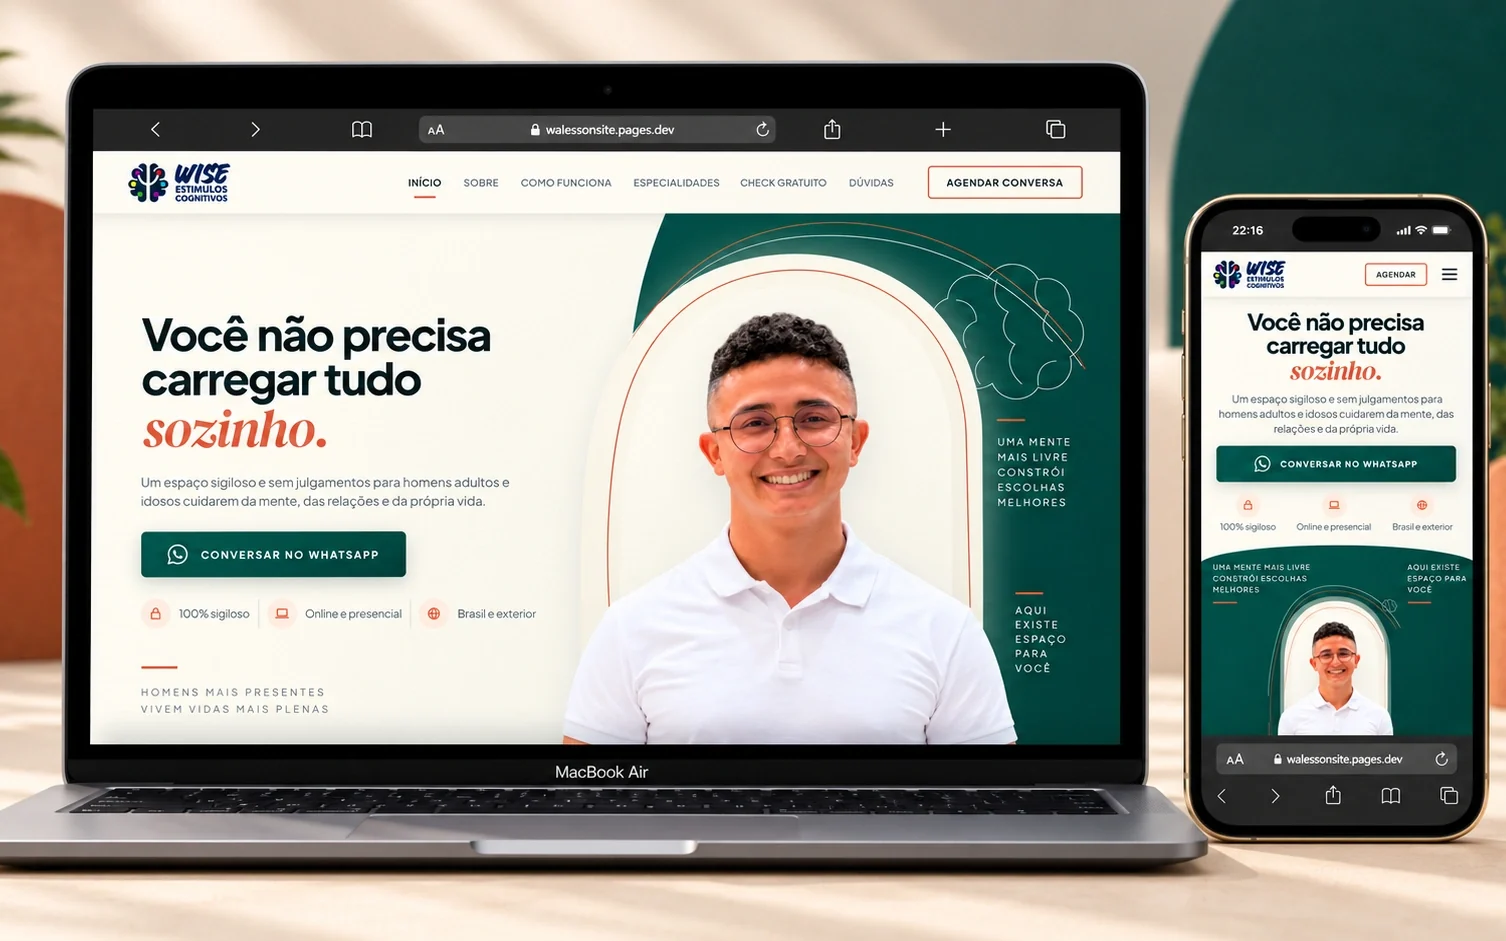
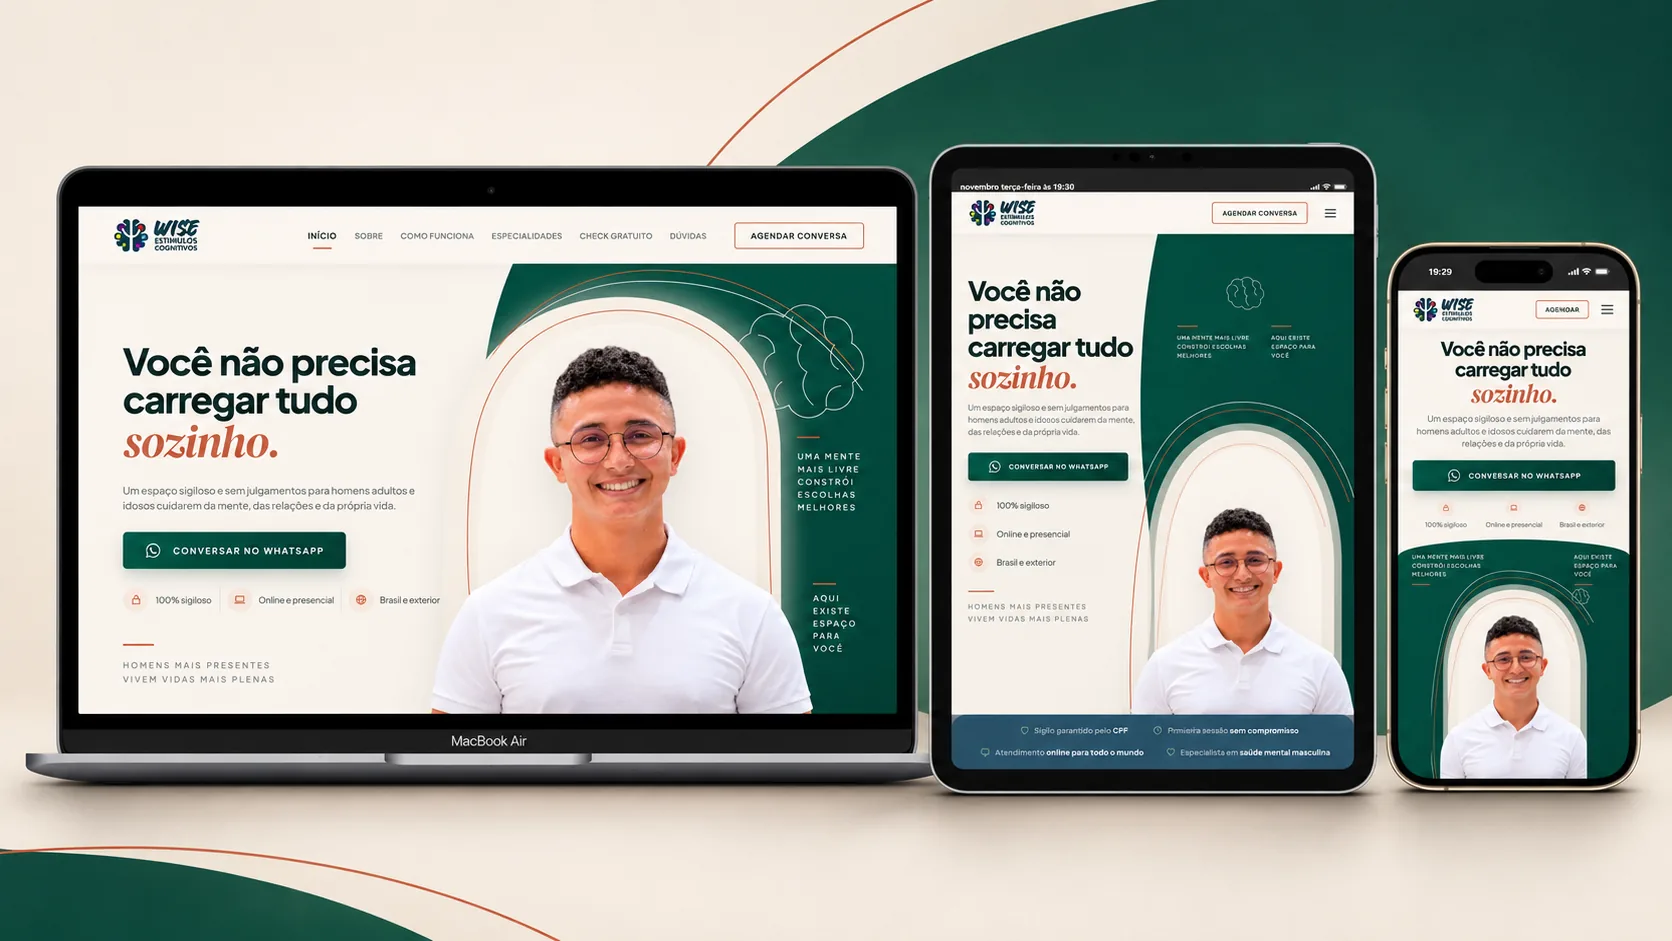
Novas capas do PSINDCE e do Walesson Psicologia em tres dispositivos
Os PNGs enviados viram WebP nos mesmos caminhos das capas antigas e
os originais saem do repositorio.

Claude-Session: https://claude.ai/code/session_011FRW9aidGzFdFeb5D8P8E5

diff --git a/index.html b/index.html
@@ -1206,8 +1206,8 @@
 
         <li class="cartao" data-categoria="projeto">
           <figure class="cartao-figura">
-            <img class="cartao-imagem" src="assets/imagens/capas/psindce-mockup-macbook-iphone.webp" alt="Mockup do site do Sindicato dos Psicologos do Ceara em MacBook e iPhone"
-                 width="1586" height="992" loading="lazy">
+            <img class="cartao-imagem" src="assets/imagens/capas/psindce-mockup-macbook-iphone.webp" alt="Mockup do site do Sindicato dos Psicólogos do Ceará em MacBook, iPad e iPhone"
+                 width="1672" height="941" loading="lazy">
           </figure>
           <div class="cartao-corpo">
             <h3 class="cartao-titulo">Sindicato dos Psicólogos do Ceará</h3>
@@ -1228,8 +1228,8 @@
 
         <li class="cartao" data-categoria="projeto">
           <figure class="cartao-figura">
-            <img class="cartao-imagem" src="assets/imagens/capas/wise-mockup-macbook-iphone.webp" alt="Mockup do site Walesson Psicologia em MacBook e iPhone"
-                 width="1506" height="941" loading="lazy">
+            <img class="cartao-imagem" src="assets/imagens/capas/wise-mockup-macbook-iphone.webp" alt="Mockup do site Walesson Psicologia em MacBook, iPad e iPhone"
+                 width="1672" height="941" loading="lazy">
           </figure>
           <div class="cartao-corpo">
             <h3 class="cartao-titulo">Walesson Psicologia</h3>
